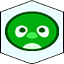
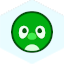
New assets to correct size

diff --git a/src/main/java/Vue/NiveauGraphique.java b/src/main/java/Vue/NiveauGraphique.java
@@ -10,169 +10,166 @@ import java.awt.*;
 import java.awt.image.BufferedImage;
 import java.io.File;
 import java.io.IOException;
-import java.util.ArrayList;
 
 public class NiveauGraphique extends JComponent implements Observateur {
-	Jeu jeu;
-	int largeurCase, hauteurCase;
+    Jeu jeu;
+    int largeurCase, hauteurCase;
 
-	int[] tabCases = new int[2];
+    int[] tabCases = new int[2];
 
-	public NiveauGraphique(Jeu j) {
-		jeu = j;
-		jeu.ajouteObservateur(this);
-	}
+    public NiveauGraphique(Jeu j) {
+        jeu = j;
+        jeu.ajouteObservateur(this);
+    }
 
-	/*
-	 * Peindre le plateau de jeu
-	 */
-	@Override
-	public void paintComponent(Graphics g) {
+    /*
+     * Peindre le plateau de jeu
+     */
+    @Override
+    public void paintComponent(Graphics g) {
 
-		Graphics2D drawable = (Graphics2D) g;
+        Graphics2D drawable = (Graphics2D) g;
 
-		g.setFont(new Font("Arial", Font.BOLD, 30));
-		/* Load Assets */
-		BufferedImage[] assetsPlateau = new BufferedImage[19];
-		BufferedImage waterBG = null;
-
-
-		try {
-			waterBG = ImageIO.read(new File("resources/assets/waterTile.png"));
-			assetsPlateau[0] = ImageIO.read(new File("resources/assets/water.png"));
-			assetsPlateau[1] = ImageIO.read(new File("resources/assets/poisson1.png"));
-			assetsPlateau[2] = ImageIO.read(new File("resources/assets/poisson2.png"));
-			assetsPlateau[3] = ImageIO.read(new File("resources/assets/poisson3.png"));
-			assetsPlateau[4] = ImageIO.read(new File("resources/assets/penguinBleu.png"));
-			assetsPlateau[5] = ImageIO.read(new File("resources/assets/penguinVert.png"));
-			assetsPlateau[6] = ImageIO.read(new File("resources/assets/penguinRouge.png"));
-			assetsPlateau[7] = ImageIO.read(new File("resources/assets/penguinJaune.png"));
-			assetsPlateau[8] = ImageIO.read(new File("resources/assets/poisson1Sel.png"));
-			assetsPlateau[9] = ImageIO.read(new File("resources/assets/poisson2Sel.png"));
-			assetsPlateau[10] = ImageIO.read(new File("resources/assets/poisson3Sel.png"));
-			assetsPlateau[11] = ImageIO.read(new File("resources/assets/penguinBleuSel.png"));
-			assetsPlateau[12] = ImageIO.read(new File("resources/assets/penguinVertSel.png"));
-			assetsPlateau[13] = ImageIO.read(new File("resources/assets/penguinRougeSel.png"));
-			assetsPlateau[14] = ImageIO.read(new File("resources/assets/penguinJauneSel.png"));
-			assetsPlateau[15] = ImageIO.read(new File("resources/assets/penguin.png"));
-			assetsPlateau[16] = ImageIO.read(new File("resources/assets/penguin_vert.png"));
-			assetsPlateau[17] = ImageIO.read(new File("resources/assets/penguin_rouge.png"));
-			assetsPlateau[18] = ImageIO.read(new File("resources/assets/penguin_jaune.png"));
-		} catch (IOException exc) {
-			System.out.println("Erreur dans le chargement des images");
-		}
-
-		// Fin de la partie
-		if (!jeu.enCours()) {
-			g.drawString("La partie est terminée", largeur() / 3, hauteur() / 2);
-		}
-
-		int lignes = jeu.hauteur();
-		int colonnes = jeu.largeur();
-		largeurCase = largeur() / colonnes;
-		hauteurCase = hauteur() / lignes;
-
-		// Rectangle d'océan (bleu) en fond
-		g.drawImage(waterBG, 0, 0, getWidth(), getHeight(), this);
-
-		// DIMINUE LA TAILLE DES IMAGES IMPORTANT A PRENDRE EN COMPTE POUR LE CALCUL DES POSITIONS
-		((Graphics2D) g).scale(0.9, 1.3);
-
-		// Grille
-		float height;
-		// Formule pour calculer la distance entre 2 hexagons
-		height = (3f / 4f) * (float) hauteurCase;
-		int hauteur, largeur;
-
-		for (int i = 0; i < (lignes); i++) {
-			hauteur = Math.round((float) i * height);
-			for (int j = 0; j < (colonnes); j++) {
-				if (jeu.valeur(i, j) == 0) continue;
-				if (i % 2 == 1)
-					largeur = j * largeurCase + largeurCase / 2;
-				else
-					largeur = j * largeurCase;
-				g.drawImage(assetsPlateau[jeu.valeur(i, j)], largeur, hauteur,
-							largeurCase, hauteurCase, this);
-			}
-		}
-
-		// Cases selectionnable (feedforward)
-		// ArrayList<int[]> hexAccess = jeu.hexAccess;
-		int x = 0;
-		int y = 0;
-		int h = 0;
-		int l = 0;
-		try {
-			if (jeu.etatCourant() == Etats.Deplacement)
-				for (int [] access : jeu.hexAccess ) {
-					x = access[0];
-					y = access[1];
-					h = Math.round((float) x * height);
-					if (x % 2 == 1) {
-						l = y * largeurCase + largeurCase / 2;
-					}
-					else {
-						l = y * largeurCase;
-					}
-					if(jeu.valeur(x, y) == 0) continue;
-					else
-						g.drawImage(assetsPlateau[jeu.valeur(x, y) + 7], l, h,
-								largeurCase, hauteurCase, this);
-			}
-		}
-		catch(NullPointerException e) {
-			System.out.println("Erreur d'initialisation de liste");
-		}
+        g.setFont(new Font("Arial", Font.BOLD, 30));
+        /* Load Assets */
+        BufferedImage[] assetsPlateau = new BufferedImage[19];
+        BufferedImage waterBG = null;
 
 
-		// Tour des joueurs
-		if (jeu.joueurCourant == 0) {
-			g.drawImage(assetsPlateau[15], 0, 0, largeurCase / 2, hauteurCase / 2, this);
-		} else if (jeu.joueurCourant == 1) {
-			g.drawImage(assetsPlateau[16], 0, 30, largeurCase / 2, hauteurCase / 2, this);
-		} else if (jeu.joueurCourant == 2) {
-			g.drawImage(assetsPlateau[17], 0, 60, largeurCase / 2, hauteurCase / 2, this);
-		} else if (jeu.joueurCourant == 3) {
-			g.drawImage(assetsPlateau[18], 0, 90, largeurCase / 2, hauteurCase / 2, this);
-		} else {
+        try {
+            waterBG = ImageIO.read(new File("resources/assets/waterTile.png"));
+            assetsPlateau[0] = ImageIO.read(new File("resources/assets/water.png"));
+            assetsPlateau[1] = ImageIO.read(new File("resources/assets/poisson1.png"));
+            assetsPlateau[2] = ImageIO.read(new File("resources/assets/poisson2.png"));
+            assetsPlateau[3] = ImageIO.read(new File("resources/assets/poisson3.png"));
+            assetsPlateau[4] = ImageIO.read(new File("resources/assets/penguinBleu.png"));
+            assetsPlateau[5] = ImageIO.read(new File("resources/assets/penguinVert.png"));
+            assetsPlateau[6] = ImageIO.read(new File("resources/assets/penguinRouge.png"));
+            assetsPlateau[7] = ImageIO.read(new File("resources/assets/penguinJaune.png"));
+            assetsPlateau[8] = ImageIO.read(new File("resources/assets/poisson1Sel.png"));
+            assetsPlateau[9] = ImageIO.read(new File("resources/assets/poisson2Sel.png"));
+            assetsPlateau[10] = ImageIO.read(new File("resources/assets/poisson3Sel.png"));
+            assetsPlateau[11] = ImageIO.read(new File("resources/assets/penguinBleuSel.png"));
+            assetsPlateau[12] = ImageIO.read(new File("resources/assets/penguinVertSel.png"));
+            assetsPlateau[13] = ImageIO.read(new File("resources/assets/penguinRougeSel.png"));
+            assetsPlateau[14] = ImageIO.read(new File("resources/assets/penguinJauneSel.png"));
+            assetsPlateau[15] = ImageIO.read(new File("resources/assets/penguin.png"));
+            assetsPlateau[16] = ImageIO.read(new File("resources/assets/penguin_vert.png"));
+            assetsPlateau[17] = ImageIO.read(new File("resources/assets/penguin_rouge.png"));
+            assetsPlateau[18] = ImageIO.read(new File("resources/assets/penguin_jaune.png"));
+        } catch (IOException exc) {
+            System.out.println("Erreur dans le chargement des images");
+        }
 
-		}
-		
-		g.setFont(new Font("Arial", Font.PLAIN,  largeurCase / 10));
-		int score = jeu.joueurs[jeu.joueurCourant].getScore();
-		String s1 = " : " + score;
-		String s = "Score J" + (jeu.joueurCourant+1) + s1;
-		g.drawString(s, 0, hauteurCase);
-	}
+        // Fin de la partie
+        if (!jeu.enCours()) {
+            g.drawString("La partie est terminée", largeur() / 3, hauteur() / 2);
+        }
 
-	int largeur() {
-		//return getWidth();
-		return taille();
-	}
+        int lignes = jeu.hauteur();
+        int colonnes = jeu.largeur();
+        largeurCase = largeur() / colonnes;
+        hauteurCase = hauteur() / lignes;
 
-	int hauteur() {
-		//return getHeight();
-		return taille();
-	}
+        // Rectangle d'océan (bleu) en fond
+        g.drawImage(waterBG, 0, 0, getWidth(), getHeight(), this);
 
-	int taille(){
-		if(getWidth() < getHeight())
-			return getWidth();
-		else
-			return getHeight();
-	}
+        // DIMINUE LA TAILLE DES IMAGES IMPORTANT A PRENDRE EN COMPTE POUR LE CALCUL DES POSITIONS
+        ((Graphics2D) g).scale(0.9, 1.3);
 
-	public int largeurCase() {
-		return largeurCase;
-	}
+        // Grille
+        float height;
+        // Formule pour calculer la distance entre 2 hexagons
+        height = (3f / 4f) * (float) hauteurCase;
+        int hauteur, largeur;
 
-	public int hauteurCase() {
-		return hauteurCase;
-	}
+        for (int i = 0; i < (lignes); i++) {
+            hauteur = Math.round((float) i * height);
+            for (int j = 0; j < (colonnes); j++) {
+                if (jeu.valeur(i, j) == 0) continue;
+                if (i % 2 == 1)
+                    largeur = j * largeurCase + largeurCase / 2;
+                else
+                    largeur = j * largeurCase;
+                g.drawImage(assetsPlateau[jeu.valeur(i, j)], largeur, hauteur,
+                        largeurCase, hauteurCase, this);
+            }
+        }
 
-	@Override
-	public void miseAJour() {
-		repaint();
-	}
+        // Cases selectionnable (feedforward)
+        // ArrayList<int[]> hexAccess = jeu.hexAccess;
+        int x = 0;
+        int y = 0;
+        int h = 0;
+        int l = 0;
+        try {
+            if (jeu.etatCourant() == Etats.Deplacement)
+                for (int[] access : jeu.hexAccess) {
+                    x = access[0];
+                    y = access[1];
+                    h = Math.round((float) x * height);
+                    if (x % 2 == 1) {
+                        l = y * largeurCase + largeurCase / 2;
+                    } else {
+                        l = y * largeurCase;
+                    }
+                    if (jeu.valeur(x, y) == 0) continue;
+                    else
+                        g.drawImage(assetsPlateau[jeu.valeur(x, y) + 7], l, h,
+                                largeurCase, hauteurCase, this);
+                }
+        } catch (NullPointerException e) {
+            System.out.println("Erreur d'initialisation de liste");
+        }
+
+
+        // Tour des joueurs
+        if (jeu.joueurCourant == 0) {
+            g.drawImage(assetsPlateau[15], 0, 0, largeurCase / 2, hauteurCase / 2, this);
+        } else if (jeu.joueurCourant == 1) {
+            g.drawImage(assetsPlateau[16], 0, 30, largeurCase / 2, hauteurCase / 2, this);
+        } else if (jeu.joueurCourant == 2) {
+            g.drawImage(assetsPlateau[17], 0, 60, largeurCase / 2, hauteurCase / 2, this);
+        } else if (jeu.joueurCourant == 3) {
+            g.drawImage(assetsPlateau[18], 0, 90, largeurCase / 2, hauteurCase / 2, this);
+        } else {
+
+        }
+
+        g.setFont(new Font("Arial", Font.PLAIN, largeurCase / 10));
+        int score = jeu.joueurs[jeu.joueurCourant].getScore();
+        String s1 = " : " + score;
+        String s = "Score J" + (jeu.joueurCourant + 1) + s1;
+        g.drawString(s, 0, hauteurCase);
+    }
+
+    int largeur() {
+        //return getWidth();
+        return taille();
+    }
+
+    int hauteur() {
+        //return getHeight();
+        return taille();
+    }
+
+    int taille() {
+        if (getWidth() < getHeight())
+            return getWidth();
+        else
+            return getHeight();
+    }
+
+    public int largeurCase() {
+        return largeurCase;
+    }
+
+    public int hauteurCase() {
+        return hauteurCase;
+    }
+
+    @Override
+    public void miseAJour() {
+        repaint();
+    }
 }

diff --git a/src/main/java/Modele/Jeu.java b/src/main/java/Modele/Jeu.java
@@ -36,8 +36,10 @@ public class Jeu extends Observable {
 		this.largeur = largeur;
 		this.hauteur = hauteur;
 		this.plateau = new int[largeur][hauteur];
-		for (int i = 0; i < largeur; i++) {
-			System.arraycopy(plateau[i], 0, this.plateau[i], 0, hauteur);
+		for(int i =0; i< largeur; i++){
+			for(int j = 0 ;j < hauteur; j++) {
+				this.plateau[i][j] = plateau[i][j];
+			}
 		}
 	}
 
